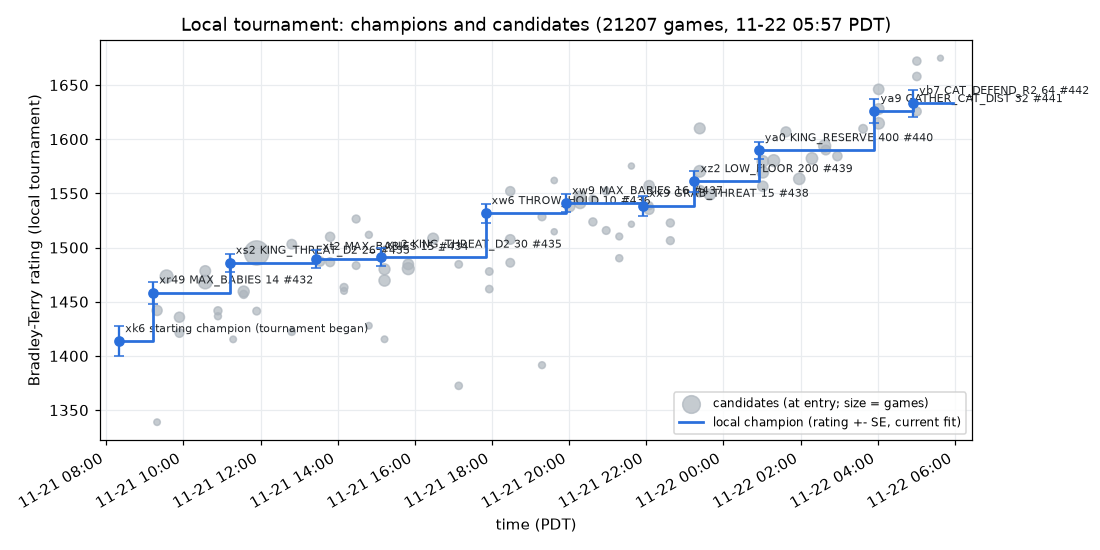
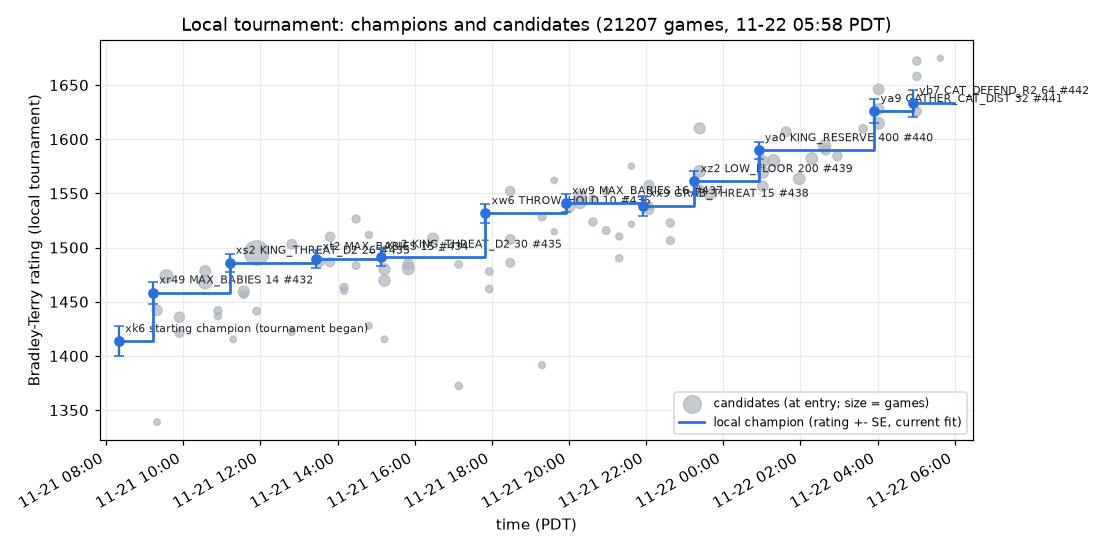
progress charts 11-22 05:58 PDT
Claude-Session: https://claude.ai/code/session_01SzziPV5YmmvGU24CuZFoPc

diff --git a/progress/ladder.md b/progress/ladder.md
@@ -1,6 +1,6 @@
 # Galaxy replica ladder
 
-Snapshot of the Rankings page of our private galaxy replica, taken Nov 22 05:57 PDT. Written by `tools/replica_report.py`: regenerate it, do not edit it.
+Snapshot of the Rankings page of our private galaxy replica, taken Nov 22 05:58 PDT. Written by `tools/replica_report.py`: regenerate it, do not edit it.
 
 **Rating** is the replica's displayed rating (galaxy's penalized Elo, which starts every team low and climbs over its first rated matches); it is not the Bradley-Terry fit of `progress/ELO.md`. Games W-L counts the replica games in `progress/games.csv`. Our team is **vibe26b**.
 

diff --git a/progress/local-elo.md b/progress/local-elo.md
@@ -1,6 +1,6 @@
 # Local tournament Elo
 
-Bradley-Terry ratings of our own bots in the local tournament (`tools/tourney.py`), all 21207 games in one fit as of 2026-11-22 05:57 PDT, so every point is on the same scale; earlier champions are shown at their current rating. Regenerate with `tools/tourney.py chart`.
+Bradley-Terry ratings of our own bots in the local tournament (`tools/tourney.py`), all 21207 games in one fit as of 2026-11-22 05:58 PDT, so every point is on the same scale; earlier champions are shown at their current rating. Regenerate with `tools/tourney.py chart`.
 
 ![local elo](local-elo.png)
 

diff --git a/progress/rating-history.md b/progress/rating-history.md
@@ -1,6 +1,6 @@
 # Rating history (replica)
 
-Our displayed rating on the replica after each rated match, from `/api/compete/bc26/match/historical_rating/`, with each submission marked at its upload. Regenerate with `tools/replica_report.py`; data fetched 2026-11-22 05:57 PDT. Times are Pacific.
+Our displayed rating on the replica after each rated match, from `/api/compete/bc26/match/historical_rating/`, with each submission marked at its upload. Regenerate with `tools/replica_report.py`; data fetched 2026-11-22 05:58 PDT. Times are Pacific.
 
 ![rating history](rating-history.png)
 
